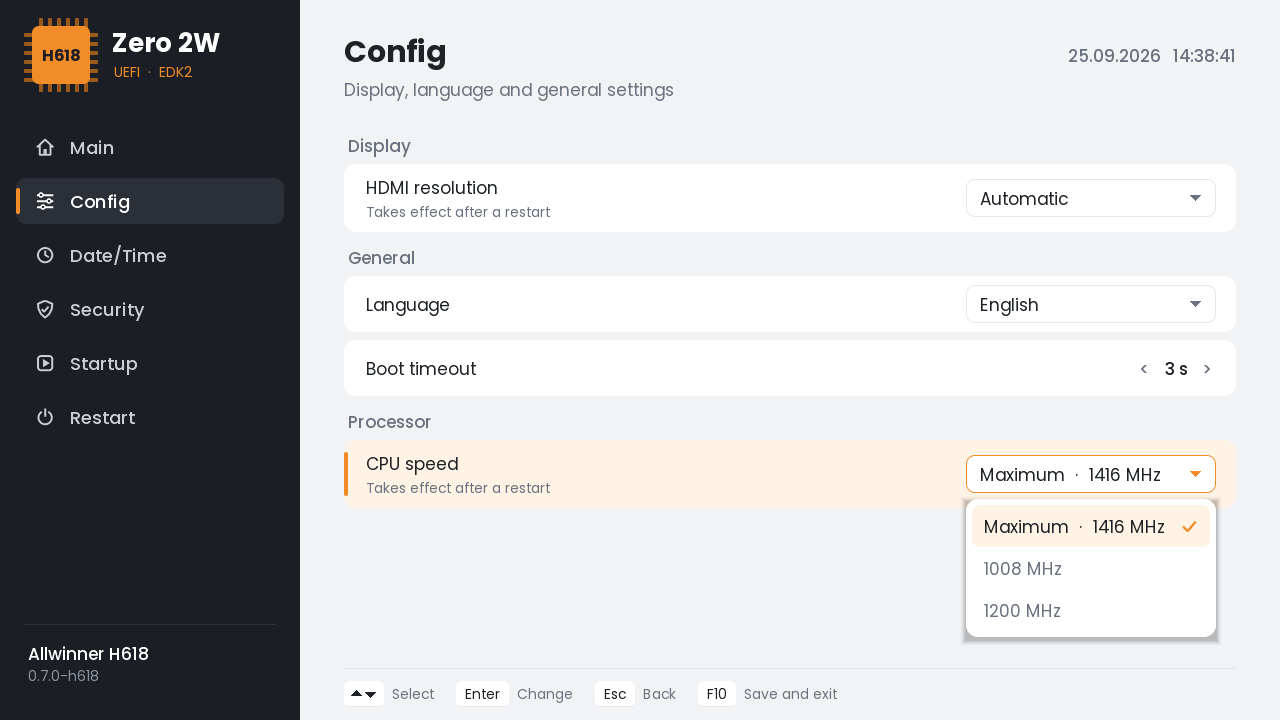
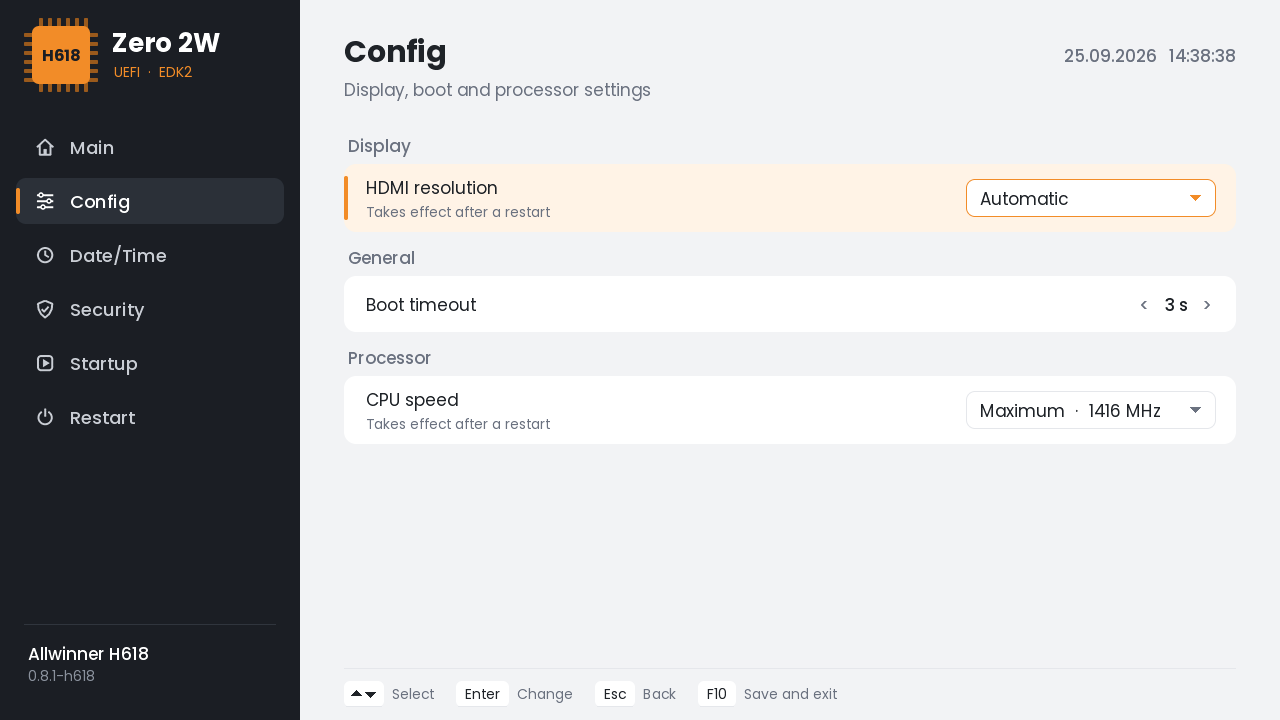
v0.8.2: English-only setup, firmware version back on the boot screen, wait for USB to settle before the boot timeout, refresh boot options in setup
Claude-Session: https://claude.ai/code/session_01Wq1JQMnCDPhr9mwbsXmEsq

diff --git a/Platform/OrangePi/OrangePiZero2W/Applications/OpiSetup/OpiSetup.c b/Platform/OrangePi/OrangePiZero2W/Applications/OpiSetup/OpiSetup.c
@@ -297,11 +297,6 @@ BuildPage (
       It->Options[2] = L"1920 x 1080  ·  60 Hz";
       It->OptCount   = 3;
       Add (ItSection, S (StrGeneral));
-      It             = Add (ItChoice, S (StrLanguage));
-      It->Choice     = &mLang;
-      It->Options[0] = S (StrTurkish);
-      It->Options[1] = S (StrEnglish);
-      It->OptCount   = 2;
       AddNumber (S (StrTimeout), &mTimeout, 0, 30, S (StrSeconds));
       Add (ItSection, S (StrCpuSec));
       UnicodeSPrint (mCpuMaxLabel, sizeof (mCpuMaxLabel), L"%s  ·  %u MHz", S (StrCpuMax), (mCpu != NULL) ? mCpu->MaxMhz : 1512);
@@ -452,10 +447,7 @@ LoadSettings (
   gRT->GetVariable (L"Timeout", &gEfiGlobalVariableGuid, NULL, &Size, &T);
   mTimeout = (T > 30) ? 30 : T;
 
-  Size = 1;
-  B    = 1;                                           // English unless set
-  gRT->GetVariable (L"Language", &mSetupVarGuid, NULL, &Size, &B);
-  mLang     = B & 1;
+  mLang     = 1;                                      // English only
   gLanguage = mLang;
 
   if (!EFI_ERROR (gRT->GetTime (&Now, NULL))) {
@@ -489,6 +481,10 @@ LoadSettings (
   // Boot options, in BootOrder order. Only active, visible ones can be
   // reordered here; the others keep their place at the end of BootOrder.
   //
+  // pick up USB drives plugged in after BDS scanned the devices
+  EfiBootManagerConnectAll ();
+  EfiBootManagerRefreshAllBootOption ();
+
   mBootCount   = 0;
   mHiddenCount = 0;
   Opts         = EfiBootManagerGetLoadOptions (&OptCount, LoadOptionTypeBoot);
@@ -508,44 +504,6 @@ LoadSettings (
   }
 
   EfiBootManagerFreeLoadOptions (Opts, OptCount);
-
-  //
-  // Date/time: written only when edited, so saving other settings does not
-  // move the clock back to the moment setup was opened.
-  //
-  if (TimeChanged () && !EFI_ERROR (gRT->GetTime (&Now, NULL))) {
-    STATIC CONST UINT8  Days[] = { 31, 28, 31, 30, 31, 30, 31, 31, 30, 31, 30, 31 };
-    INT32               Max;
-
-    Max = Days[mMonth - 1];
-    if ((mMonth == 2) && ((mYear % 4) == 0)) {
-      Max = 29;
-    }
-
-    Now.Year   = (UINT16)mYear;
-    Now.Month  = (UINT8)mMonth;
-    Now.Day    = (UINT8)MIN (mDay, Max);
-    Now.Hour   = (UINT8)mHour;
-    Now.Minute = (UINT8)mMinute;
-    Now.Second = 0;
-    Now.Nanosecond = 0;
-    gRT->SetTime (&Now);
-  }
-
-  mTimeOrig[0] = mYear;
-  mTimeOrig[1] = mMonth;
-  mTimeOrig[2] = mDay;
-  mTimeOrig[3] = mHour;
-  mTimeOrig[4] = mMinute;
-
-  if (mSecureBoot != mSecureBootOrig) {
-    if (EFI_ERROR ((mSecureBoot != 0) ? SbEnable () : SbDisable ())) {
-      Dialog (S (StrSecureBoot), S (StrSbFailed), S (StrOk), NULL);
-      mSecureBoot = SbPkEnrolled () ? 1 : 0;
-    }
-
-    mSecureBootOrig = mSecureBoot;
-  }
 
   mHdmiModeOrig = mHdmiMode;
   mTimeoutOrig  = mTimeout;
@@ -618,8 +576,6 @@ SaveSettings (
   gRT->SetVariable (L"CpuSpeed", &mSetupVarGuid, EFI_VARIABLE_NON_VOLATILE | EFI_VARIABLE_BOOTSERVICE_ACCESS, 1, &B);
   mCpuSpeedOrig = mCpuSpeed;
 
-  B = (UINT8)mLang;
-  gRT->SetVariable (L"Language", &mSetupVarGuid, EFI_VARIABLE_NON_VOLATILE | EFI_VARIABLE_BOOTSERVICE_ACCESS, 1, &B);
 
   if (BootOrderChanged ()) {
     Order = AllocatePool ((mBootCount + mHiddenCount) * sizeof (UINT16));

diff --git a/Platform/OrangePi/OrangePiZero2W/Applications/OpiSetup/Strings.c b/Platform/OrangePi/OrangePiZero2W/Applications/OpiSetup/Strings.c
@@ -6,7 +6,7 @@
 
 #include "OpiSetup.h"
 
-UINTN  gLanguage = 1;
+UINTN  gLanguage = 1;               // English (the Turkish column is kept but not selectable)
 
 STATIC CONST CHAR16  *mStrings[StrCount][2] = {
   [StrSetup]            = { L"UEFI Kurulum",                              L"UEFI Setup"                               },
@@ -17,7 +17,7 @@ STATIC CONST CHAR16  *mStrings[StrCount][2] = {
   [StrStartup]          = { L"Başlangıç",                                 L"Startup"                                  },
   [StrExit]             = { L"Çıkış",                                     L"Restart"                                  },
   [StrMainSub]          = { L"Sistem bilgileri",                          L"System information"                       },
-  [StrConfigSub]        = { L"Ekran, dil ve genel ayarlar",               L"Display, language and general settings"   },
+  [StrConfigSub]        = { L"Ekran, dil ve genel ayarlar",               L"Display, boot and processor settings"   },
   [StrDateTimeSub]      = { L"Kartın saati (pil yok: elektrik kesilince sıfırlanır)", L"Board clock (no battery: resets on power loss)" },
   [StrSecuritySub]      = { L"Güvenlik özellikleri",                      L"Security features"                        },
   [StrStartupSub]       = { L"Açılış sırası ve açılış aygıtı",            L"Boot order and boot device"               },

diff --git a/README.md b/README.md
@@ -18,7 +18,7 @@ Feature status: **[docs/STATUS.md](docs/STATUS.md)**
 
 ## Highlights
 
-- Graphical setup (**F2**) and boot menu (**ESC**), English and Turkish
+- Graphical setup (**F2**) and boot menu (**ESC**)
 - HDMI output at 720p or 1080p (UEFI GOP)
 - USB host port with EHCI + OHCI: keyboards, hubs, USB drives, boot from USB
 - microSD read/write, FAT and Ext4

diff --git a/docs/STATUS.md b/docs/STATUS.md
@@ -7,7 +7,7 @@
 State: Active
 Codename: opizero2w
 SoC: Allwinner H618 (4x Cortex-A53, 1 GB LPDDR4)
-Version: 0.8.1-h618
+Version: 0.8.2-h618
 
 Contributors: limonabisi
 
